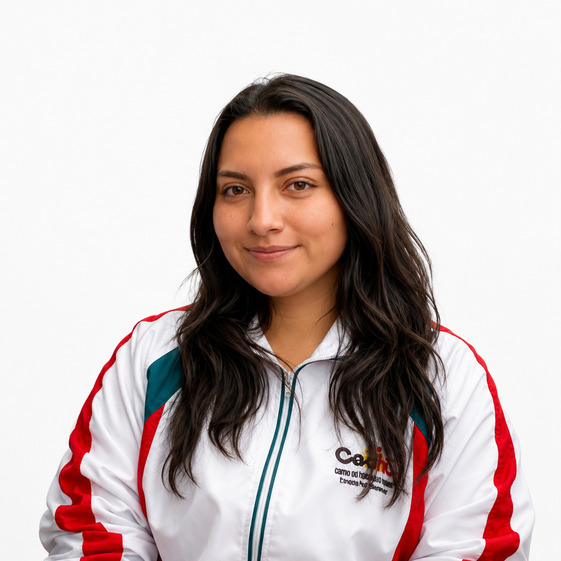
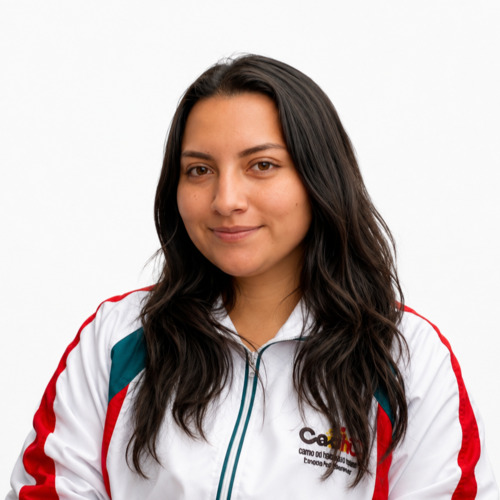
Se agregan Profes

diff --git a/core/templates/core/nosotros.html b/core/templates/core/nosotros.html
@@ -490,7 +490,7 @@ CEDHU{% endblock %} {% block content %}
     <!-- COORDINADORES -->
     <div class="accordion">
       <button class="accordion-btn" type="button">
-        COORDINADORES ACADÉMICOS Y PSICOORIENTADORA
+        COORDINADORES ACADÉMICOS Y DE CONVIVENCIA
       </button>
       <div class="accordion-content">
         <div class="staff">
@@ -1359,6 +1359,22 @@ CEDHU{% endblock %} {% block content %}
             <div class="staff-card-inner">
               <div class="staff-card-front">
                 <img
+                  src="{% static 'core/img/donhugo.avif' %}"
+                  alt="Coordinador 3"
+                />
+                <h4>Hugo Ernesto Ruiz Fajardo</h4>
+                <p></p>
+              </div>
+              <div class="staff-card-back">
+                <p>COORDINADOR DE SEGURIDAD.</p>
+              </div>
+            </div>
+          </div>
+
+          <div class="staff-card" tabindex="0">
+            <div class="staff-card-inner">
+              <div class="staff-card-front">
+                <img
                   src="{% static 'core/img/contadora.png' %}"
                   alt="Docente 2"
                 />
@@ -1407,7 +1423,7 @@ CEDHU{% endblock %} {% block content %}
       </div>
     </div>
 
-    <!--administrativos -->
+    <!--Servicios generales -->
     <div class="accordion">
       <button class="accordion-btn" type="button">SERVICIOS GENERALES</button>
       <div class="accordion-content">
